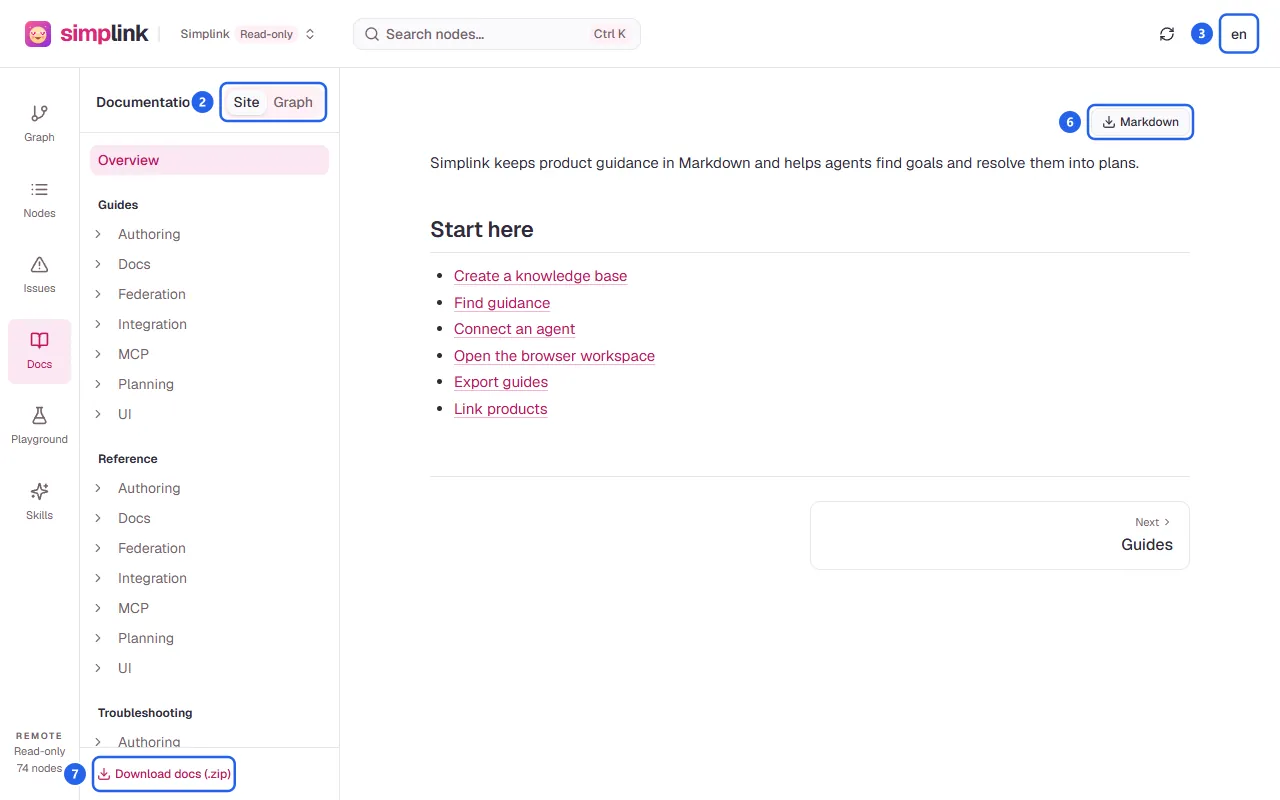
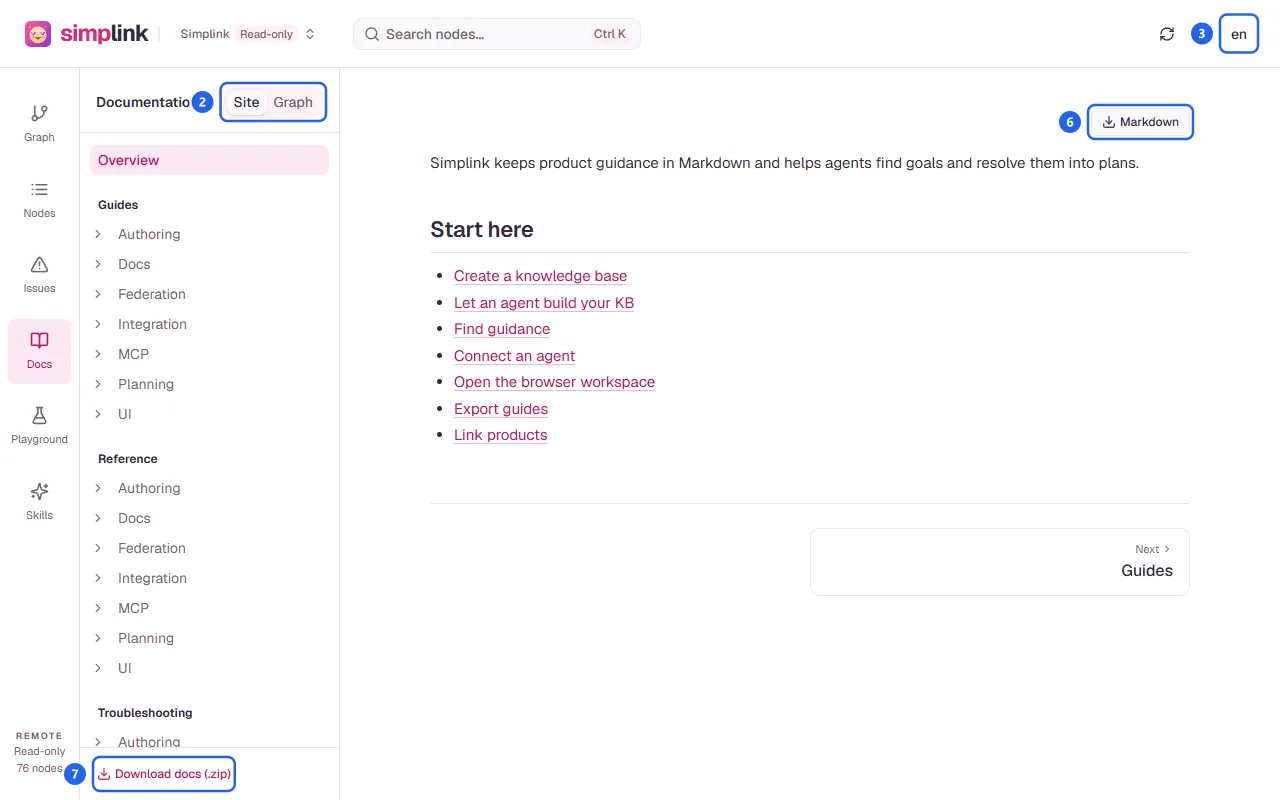
Document the UI Skills page in the KB

Changed region(s): [[0.3438, 0.375, 0.5312, 0.5625], [0.875, 0.625, 0.9062, 0.7188]]

diff --git a/kb/INVENTORY.md b/kb/INVENTORY.md
@@ -11,7 +11,7 @@ Synced 2026-11-04 (update mode): output-language support for generated text (`pa
 
 Synced 2026-11-09 (update mode): the UI opens static KBs by URL with a Cloudflare Worker CORS proxy fallback (`packages/kb-proxy`) and a browser Cache Storage file cache, in new `procedure.ui.open-static-kb`; open-screen labels updated in `procedure.ui.connect-simp-node` and `capability.ui.local-manager`.
 
-Synced 2026-11-10 (update mode): KB images (`packages/core/src/assets.ts`) get new `goal.authoring.add-images` and `procedure.authoring.add-images`; `Screen:` lines and JSON `images` in `capability.planning.plan-resolution` and the resolve procedures; image copying in `procedure.docs.export-cli`, `procedure.docs.export-library`, and `constraint.docs.output-safety`; `assets()` in `constraint.integration.source-contract`; UI image display and ZIP images in `capability.ui.local-manager` and `procedure.ui.preview-docs`; proxy image types in `procedure.ui.open-static-kb`; publishing images in `procedure.federation.publish-static-simp`. First screenshots: 4 UI shots in `assets/ui/`, recipe in `assets/shots.json`, captured from a read-only simp-node workspace (`pnpm ui` + `simp-node serve --kb kb --allowed-origin http://localhost:4173`). Gap found, not yet covered: the UI's **Skills** view.
+Synced 2026-11-10 (update mode): KB images (`packages/core/src/assets.ts`) get new `goal.authoring.add-images` and `procedure.authoring.add-images`; `Screen:` lines and JSON `images` in `capability.planning.plan-resolution` and the resolve procedures; image copying in `procedure.docs.export-cli`, `procedure.docs.export-library`, and `constraint.docs.output-safety`; `assets()` in `constraint.integration.source-contract`; UI image display and ZIP images in `capability.ui.local-manager` and `procedure.ui.preview-docs`; proxy image types in `procedure.ui.open-static-kb`; publishing images in `procedure.federation.publish-static-simp`. First screenshots: 4 UI shots in `assets/ui/`, recipe in `assets/shots.json`, captured from a read-only simp-node workspace (`pnpm ui` + `simp-node serve --kb kb --allowed-origin http://localhost:4173`). The UI's **Skills** view (added 926a7d4, missed earlier) is covered by `goal.authoring.use-agent-skills`, `procedure.ui.install-skills`, and `capability.ui.local-manager`.
 
 Audited 2026-10-22 against all `main..simp-federation` commits: federation, simp links, lint codes E012/E016/W106–W109, static publishing, UI connection, and `startSimpNode` were already covered. Fixed stale MCP nodes: `simp-mcp` options (`--simp`, peer flags) in `procedure.mcp.start-stdio` and `procedure.mcp.start-http`, `/healthz` `peers` in `constraint.mcp.http-boundary`, and `--simp` startup rules in `constraint.mcp.loaded-snapshot`.
 
@@ -19,21 +19,22 @@ Aliases and goal `when_to_use` will include Vietnamese with diacritics and Engli
 
 ## Area: Author and validate a knowledge base
 
-| id                                    | type       | title                                         | status   | evidence                                                                                   | notes                                                                                           |
-| ------------------------------------- | ---------- | --------------------------------------------- | -------- | ------------------------------------------------------------------------------------------ | ----------------------------------------------------------------------------------------------- |
-| goal.authoring.create-kb              | goal       | Create a knowledge base that agents can use   | verified | packages/core/src/loader.ts; packages/core/schemas/goal.schema.json                        | Authoring intent inferred from the supported format; confirm in review.                         |
-| goal.authoring.validate-kb            | goal       | Find and fix knowledge-base validation issues | verified | packages/core/src/cli/lint.ts:25                                                           | Include JSON output, warning thresholds, and exit codes.                                        |
-| procedure.authoring.create-kb         | procedure  | Write linked Markdown knowledge-base nodes    | verified | packages/core/src/loader.ts; packages/core/schemas/                                        | Explain five node types, path-derived IDs, required fields, and links.                          |
-| procedure.authoring.lint-kb           | procedure  | Validate a knowledge base with simp-lint      | verified | packages/core/src/cli/lint.ts:25; packages/core/src/lint-graph.ts                          | Fix findings, rerun, and distinguish errors from warnings.                                      |
-| capability.authoring.graph-validation | capability | Validate schemas and graph relationships      | verified | packages/core/src/lint.ts; packages/core/src/lint-graph.ts                                 | Shared by CLI, library, and UI workflows.                                                       |
-| state.authoring.documents-exist       | state      | Knowledge-base Markdown documents exist       | verified | packages/core/src/source.ts:15; packages/core/src/loader.ts                                | Check files under supported type folders; satisfied by create-kb.                               |
-| state.authoring.no-lint-errors        | state      | Knowledge base has no lint errors             | verified | packages/core/src/cli/lint.ts; packages/core/src/kb.ts:26                                  | Check error count; satisfied by lint-kb including fixes.                                        |
-| constraint.authoring.document-format  | constraint | Follow node paths and frontmatter schemas     | verified | packages/core/src/loader.ts; packages/core/schemas/                                        | Blocking: valid paths, type folders, fields, and references. Bundled schemas are authoritative. |
-| constraint.authoring.graph-rules      | constraint | Keep executable graph dependencies valid      | verified | packages/core/src/lint-graph.ts                                                            | Blocking rules and warning rules must be distinguished in the body.                             |
-| goal.authoring.check-in-ci            | goal       | Check the KB automatically in CI or tests     | verified | packages/core/src/cli/lint.ts; packages/core/README.md                                     | Added 2026-10-20; took the CI situation from goal.authoring.validate-kb.                        |
-| procedure.authoring.lint-in-ci        | procedure  | Fail CI builds on KB errors with simp-lint    | verified | packages/core/src/cli/lint.ts; packages/core/src/cli/resolve.ts                            | --max-warnings, --format json, optional resolve and docs smoke tests.                           |
-| goal.authoring.add-images             | goal       | Add screenshots to KB guides                  | verified | packages/core/src/assets.ts; packages/core/README.md                                       | Added 2026-11-10 for KB images (c363c3f).                                                       |
-| procedure.authoring.add-images        | procedure  | Add screenshots to procedures and states      | verified | packages/core/src/assets.ts; packages/core/src/resolve.ts; packages/core/src/lint-graph.ts | Step and state images, alt text, W110/W111, Screen: lines, simp-docs copy.                      |
+| id                                    | type       | title                                             | status   | evidence                                                                                   | notes                                                                                           |
+| ------------------------------------- | ---------- | ------------------------------------------------- | -------- | ------------------------------------------------------------------------------------------ | ----------------------------------------------------------------------------------------------- |
+| goal.authoring.create-kb              | goal       | Create a knowledge base that agents can use       | verified | packages/core/src/loader.ts; packages/core/schemas/goal.schema.json                        | Authoring intent inferred from the supported format; confirm in review.                         |
+| goal.authoring.validate-kb            | goal       | Find and fix knowledge-base validation issues     | verified | packages/core/src/cli/lint.ts:25                                                           | Include JSON output, warning thresholds, and exit codes.                                        |
+| procedure.authoring.create-kb         | procedure  | Write linked Markdown knowledge-base nodes        | verified | packages/core/src/loader.ts; packages/core/schemas/                                        | Explain five node types, path-derived IDs, required fields, and links.                          |
+| procedure.authoring.lint-kb           | procedure  | Validate a knowledge base with simp-lint          | verified | packages/core/src/cli/lint.ts:25; packages/core/src/lint-graph.ts                          | Fix findings, rerun, and distinguish errors from warnings.                                      |
+| capability.authoring.graph-validation | capability | Validate schemas and graph relationships          | verified | packages/core/src/lint.ts; packages/core/src/lint-graph.ts                                 | Shared by CLI, library, and UI workflows.                                                       |
+| state.authoring.documents-exist       | state      | Knowledge-base Markdown documents exist           | verified | packages/core/src/source.ts:15; packages/core/src/loader.ts                                | Check files under supported type folders; satisfied by create-kb.                               |
+| state.authoring.no-lint-errors        | state      | Knowledge base has no lint errors                 | verified | packages/core/src/cli/lint.ts; packages/core/src/kb.ts:26                                  | Check error count; satisfied by lint-kb including fixes.                                        |
+| constraint.authoring.document-format  | constraint | Follow node paths and frontmatter schemas         | verified | packages/core/src/loader.ts; packages/core/schemas/                                        | Blocking: valid paths, type folders, fields, and references. Bundled schemas are authoritative. |
+| constraint.authoring.graph-rules      | constraint | Keep executable graph dependencies valid          | verified | packages/core/src/lint-graph.ts                                                            | Blocking rules and warning rules must be distinguished in the body.                             |
+| goal.authoring.check-in-ci            | goal       | Check the KB automatically in CI or tests         | verified | packages/core/src/cli/lint.ts; packages/core/README.md                                     | Added 2026-10-20; took the CI situation from goal.authoring.validate-kb.                        |
+| procedure.authoring.lint-in-ci        | procedure  | Fail CI builds on KB errors with simp-lint        | verified | packages/core/src/cli/lint.ts; packages/core/src/cli/resolve.ts                            | --max-warnings, --format json, optional resolve and docs smoke tests.                           |
+| goal.authoring.add-images             | goal       | Add screenshots to KB guides                      | verified | packages/core/src/assets.ts; packages/core/README.md                                       | Added 2026-11-10 for KB images (c363c3f).                                                       |
+| procedure.authoring.add-images        | procedure  | Add screenshots to procedures and states          | verified | packages/core/src/assets.ts; packages/core/src/resolve.ts; packages/core/src/lint-graph.ts | Step and state images, alt text, W110/W111, Screen: lines, simp-docs copy.                      |
+| goal.authoring.use-agent-skills       | goal       | Let a coding agent build and use a knowledge base | verified | packages/ui/src/routes/skills.tsx; .agents/skills/                                         | Added 2026-11-10; entry goal in simp.md.                                                        |
 
 ## Area: Search and resolve user goals
 
@@ -109,6 +110,7 @@ Aliases and goal `when_to_use` will include Vietnamese with diacritics and Engli
 | procedure.ui.inspect-relationships  | procedure  | Inspect nodes, edit relationships, and preview plans | verified | packages/ui/src/components/inspector.tsx:91; packages/ui/src/components/inspector.tsx:195                  | Add/remove typed relationships; Source for structured choices. screens: steps 1, 5 (graph + inspector, read-only workspace).                    |
 | procedure.ui.repair-issues          | procedure  | Repair lint findings and reload external changes     | verified | packages/ui/src/routes/issues.tsx; packages/ui/src/routes/__root.tsx; packages/ui/src/workspace/service.ts | Saving reloads KB; explicit Reload picks up external edits.                                                                                     |
 | procedure.ui.preview-docs           | procedure  | Browse generated docs and download Markdown          | verified | packages/ui/src/routes/docs/$.tsx; packages/ui/src/workspace/service.ts                                    | Preview and ZIP work with lint errors; export CLI still requires a valid KB. ZIP includes linked images. screens: steps 2, 3, 6, 7 (docs view). |
+| procedure.ui.install-skills         | procedure  | Install the Simplink agent skills from the UI        | verified | packages/ui/src/routes/skills.tsx                                                                          | Skills page, bundle zip, agent folders. screens: steps 1–2 (Skills page).                                                                       |
 | capability.ui.local-manager         | capability | Browse and edit a KB with live validation            | verified | packages/ui/src/workspace/service.ts; packages/ui/src/routes/__root.tsx                                    | Graph, Nodes, Issues, Docs, Playground tool forms, search, English/Vietnamese labels, theme preferences.                                        |
 | state.ui.workspace-running          | state      | The selected KB is open in the local UI              | verified | packages/ui/src/workspace/context.tsx; packages/ui/src/workspace/service.ts                                | Check browser KB metadata and source root; satisfied by launch-workspace.                                                                       |
 | constraint.ui.browser-folder-access | constraint | Grant browser folder access and keep memory edits    | verified | packages/ui/src/workspace/service.ts; packages/ui/src/workspace/service.ts; README.md                      | Chromium direct writes; HTTPS/localhost; permission on reopen; memory zip fallback.                                                             |

diff --git a/kb/capabilities/ui/local-manager.md b/kb/capabilities/ui/local-manager.md
@@ -20,6 +20,7 @@ sources:
   - packages/ui/src/routes/playground.tsx
   - packages/ui/src/routes/issues.tsx
   - packages/ui/src/routes/docs/$.tsx
+  - packages/ui/src/routes/skills.tsx
   - packages/ui/src/lib/i18n.ts
   - packages/ui/src/workspace/static-kb.ts
   - packages/ui/src/components/markdown.tsx
@@ -33,6 +34,7 @@ sources:
 - **Playground**: friendly forms for **Find answers**, **Plan a goal**, **Plan a procedure**, **View details**, and **Explore connections**, using the same validated tools as MCP against the current workspace. Plans accept known conditions, choices, account plan, and permissions. These actions read data and provide guidance; they do not execute procedures or change files.
 - **Issues**: lint findings grouped by file, files with the most errors first, filterable by **Severity**. Each file has **Graph** and **Fix in source**; selecting a finding's **Line** opens the Source tab at that line. On the Source tab, the file's findings sit above the editor, which marks their lines; **Next file** moves to the next file with issues, and **Ctrl+S** (**⌘S** on macOS) saves.
 - **Docs**: an in-memory preview of the exported docs in **Site** or **Graph** layout, with current-page Markdown and full-layout ZIP downloads.
+- **Skills**: the Simplink agent skills (`product-kb-builder`, `docs-kb-builder`, `simplink-usage`) with **Download skills (.zip)** and setup steps for Claude Code, Codex, and other agents (see `procedure.ui.install-skills`).
 
 The header shows the error and warning counts, **Search nodes…**, **Reload**, a language button showing **en** or **vi** with a dropdown listing **en English** and **vi Tiếng Việt**, and a separate theme toggle showing a sun for light mode and a moon for dark mode. The default theme is light; saved theme choices are preserved. Goal and procedure pages show the resolved **Agent plan**. Node pages and the Docs preview show the images that node bodies link: folder and memory workspaces read them from the KB files, and static KBs load them from the KB's URL. A simp-node workspace cannot fetch images and shows their alt text, as it does for a missing image.
 

diff --git a/kb/procedures/ui/install-skills.md b/kb/procedures/ui/install-skills.md
@@ -1,0 +1,33 @@
+---
+type: procedure
+title: Install the Simplink agent skills from the UI
+summary: Download the skills bundle from the Skills page, unzip it into the coding agent's skills folder, and ask the agent for a KB in plain words.
+aliases:
+  - tải bộ kỹ năng Simplink
+  - cài skill cho agent
+  - download skills zip
+  - install Simplink skills
+related:
+  - capability.ui.local-manager
+sources:
+  - packages/ui/src/routes/skills.tsx
+  - packages/ui/src/routes/__root.tsx
+  - .agents/skills/
+---
+
+## Steps
+
+1. Open **Skills** in the sidebar. The page lists the three skills: `product-kb-builder` builds or re-syncs a KB from source code and docs, `docs-kb-builder` builds one from a documentation site or folder of doc pages, and `simplink-usage` runs and embeds the Simplink packages.
+
+   ![Skills page with three skill cards: (1) Skills in the sidebar, (2) the Download skills (.zip) button at the top right](../../assets/ui/skills-page.webp)
+
+2. Select **Download skills (.zip)** (2) to save `simplink-skills.zip`, which holds one folder per skill.
+3. In the project, install the CLI that the skills run: `npm install -D @sontx/simplink-core`.
+4. Unzip the bundle into the agent's skills folder and keep the folders side by side. For Claude Code use `.claude/skills` for one project or `~/.claude/skills` for every project; for Codex use `.agents/skills` or `~/.codex/skills`. Other agents use their Agent Skills folder, or are told to read `SKILL.md` before starting.
+5. Restart the agent, then ask in plain words, for example `Build a KB for this repo's billing module.` or `Connect our kb folder to Claude Code over MCP.` The agent loads the matching skill.
+6. Open the resulting `kb` folder in the UI to review the graph and fix issues.
+
+## Failure handling
+
+- `docs-kb-builder` reuses the references and scripts of `product-kb-builder`; install both, or it cannot run.
+- The bundle is built into the UI when it is built, so it matches that UI's version, not later skill changes.

diff --git a/kb/goals/authoring/use-agent-skills.md b/kb/goals/authoring/use-agent-skills.md
@@ -1,0 +1,23 @@
+---
+type: goal
+title: Let a coding agent build and use a knowledge base
+summary: Give a coding agent the Simplink skills so it can write a KB from code or docs, keep it in sync, and use the Simplink tools.
+aliases:
+  - để AI agent tự viết knowledge base
+  - cài skill Simplink cho Claude Code
+  - nhờ agent tạo KB từ mã nguồn
+  - let an agent build my KB
+  - Simplink skills for Claude Code or Codex
+  - generate a KB from my codebase
+when_to_use:
+  - Người dùng muốn Claude Code, Codex hoặc agent khác tự tạo hay cập nhật KB từ mã nguồn hoặc tài liệu.
+  - User wants a coding agent to write the KB instead of writing every node by hand.
+  - User asks what the Skills page is or how to install the skills bundle.
+procedures:
+  - procedure.ui.install-skills
+sources:
+  - packages/ui/src/routes/skills.tsx
+  - .agents/skills/
+---
+
+The user wants an agent to do the authoring. Simplink ships agent skills that teach a coding agent how to build, update, and use a KB; the agent's output still goes through `simp-lint` and can be reviewed in the UI.

diff --git a/kb/simp.md b/kb/simp.md
@@ -7,8 +7,8 @@ aliases: [Simplink knowledge base, cơ sở tri thức Simplink]
 tags: [knowledge-base, agents]
 peers: []
 checkpoint:
-  updated_at: "2026-11-10T14:27:21Z"
-  commit: "c363c3fc055a46e4ef04dbfd0a06e401a34d095b"
+  updated_at: "2026-11-10T14:34:20Z"
+  commit: "9ee741c3ff45980b778187613fba72bc0fc87675"
 sources:
   - packages/core/src/simp-doc.ts
   - packages/core/src/docs.ts
@@ -19,6 +19,7 @@ Simplink keeps product guidance in Markdown and helps agents find goals and reso
 ## Start here
 
 - [Create a knowledge base](simp:///goal.authoring.create-kb)
+- [Let an agent build your KB](simp:///goal.authoring.use-agent-skills)
 - [Find guidance](simp:///goal.planning.find-guidance)
 - [Connect an agent](simp:///goal.mcp.connect-agent)
 - [Open the browser workspace](simp:///goal.ui.open-workspace)

diff --git a/kb/goals/authoring/create-kb.md b/kb/goals/authoring/create-kb.md
@@ -22,4 +22,4 @@ sources:
   - README.md
 ---
 
-The user wants a new Simplink knowledge base. It is a set of Markdown files that describe user goals, the procedures that achieve them, and the states, capabilities, and constraints those procedures depend on.
+The user wants a new Simplink knowledge base. It is a set of Markdown files that describe user goals, the procedures that achieve them, and the states, capabilities, and constraints those procedures depend on. To have a coding agent write the files, see [[goal.authoring.use-agent-skills]].
